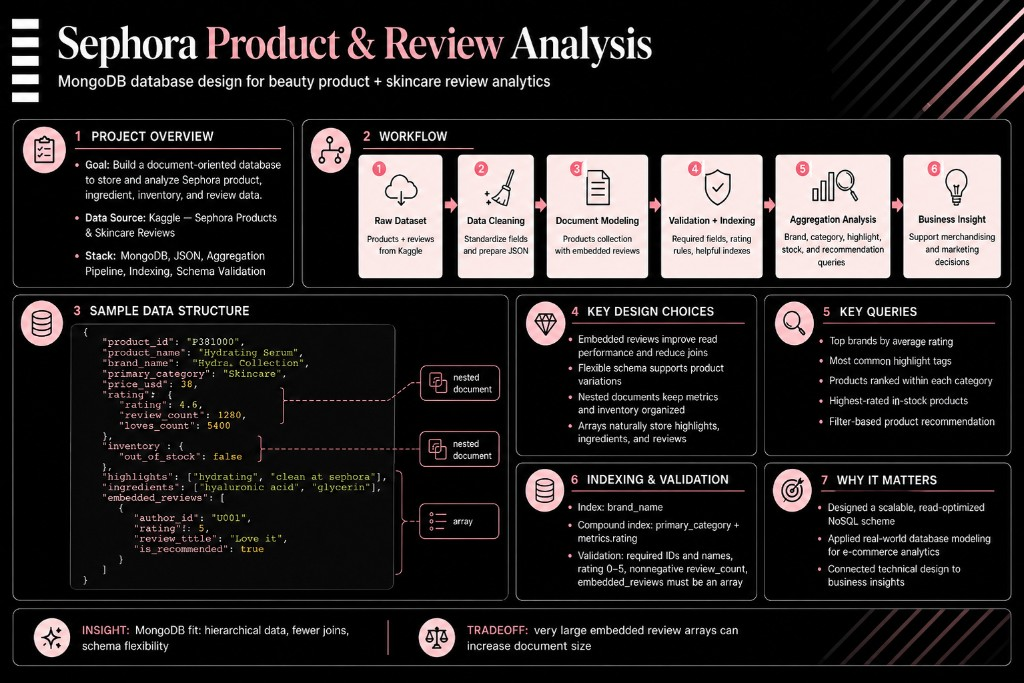
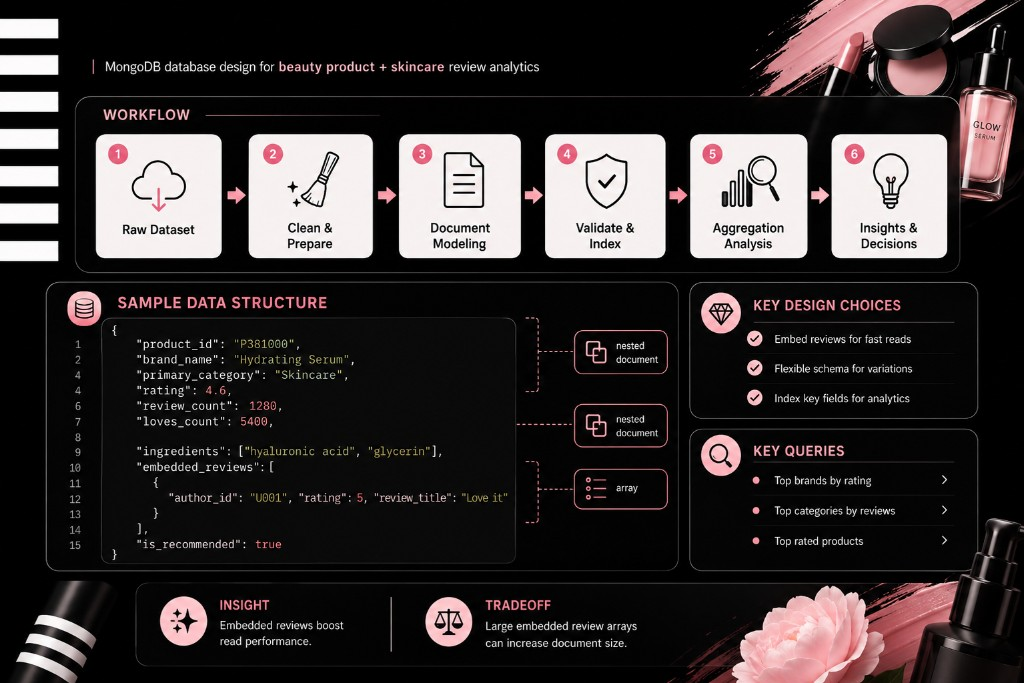
edit publication

diff --git a/src/components/Publications.jsx b/src/components/Publications.jsx
@@ -3,7 +3,7 @@ import "../css/Publications.css";
 
 import flow_img from "../assets/paper_image/flow.png";
 import capace_img from "../assets/paper_image/capace.png";
-import image_img from "../assets/paper_image/image.png";
+import fashion_supply_chain_img from "../assets/paper_image/fashion-supply-chain.png";
 import sephora_analysis_img from "../assets/paper_image/sephora-analysis.png";
 import tuntun_img from "../assets/paper_image/tuntun.png";
 import carbon_img from "../assets/paper_image/carbon.png";
@@ -59,7 +59,7 @@ const publications = [
         authors: [{ name: "Stakeholders" }],
         venues: [{ name: "Product Management", type: "workshop" }],
         links: { msg: "Stakeholders — materials on request." },
-        image: image_img,
+        image: fashion_supply_chain_img,
         tags: [
             "Project Management",
             "Supply Chain Analytics",

diff --git a/src/css/Publications.css b/src/css/Publications.css
@@ -114,8 +114,10 @@
 }
 
 .venue-tag.workshop {
-    background-color: #ddbeff;
-    
+    background-color: rgba(248, 249, 251, 0.95);
+    border: 1.5px solid #000080;
+    color: #000080;
+    box-shadow: none;
 }
 .venue-tag.thesis {
     background-color: #cee8c9;
